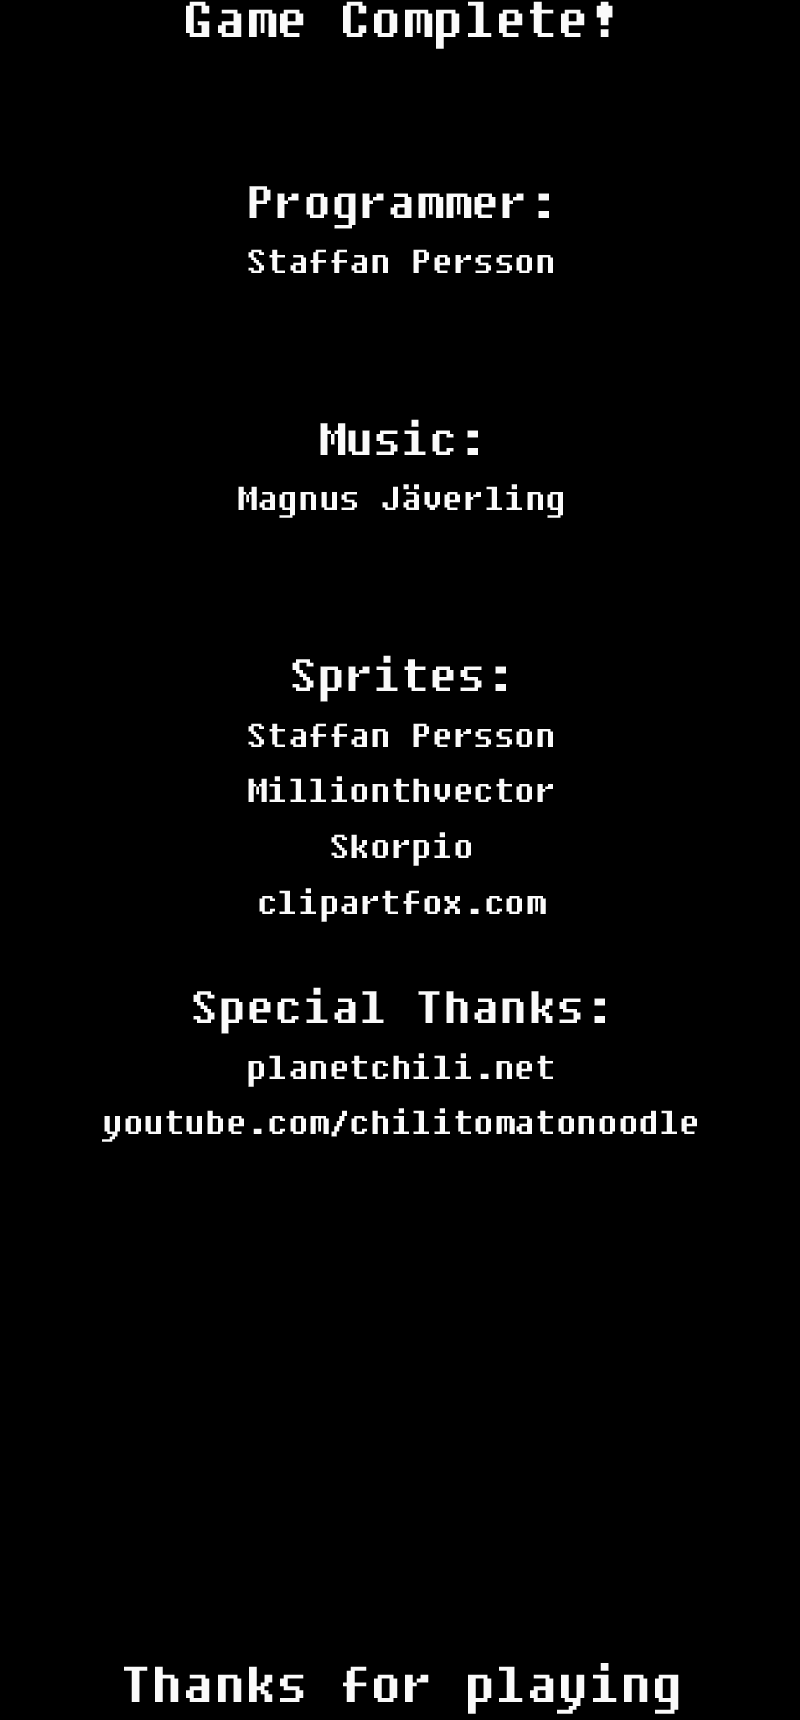
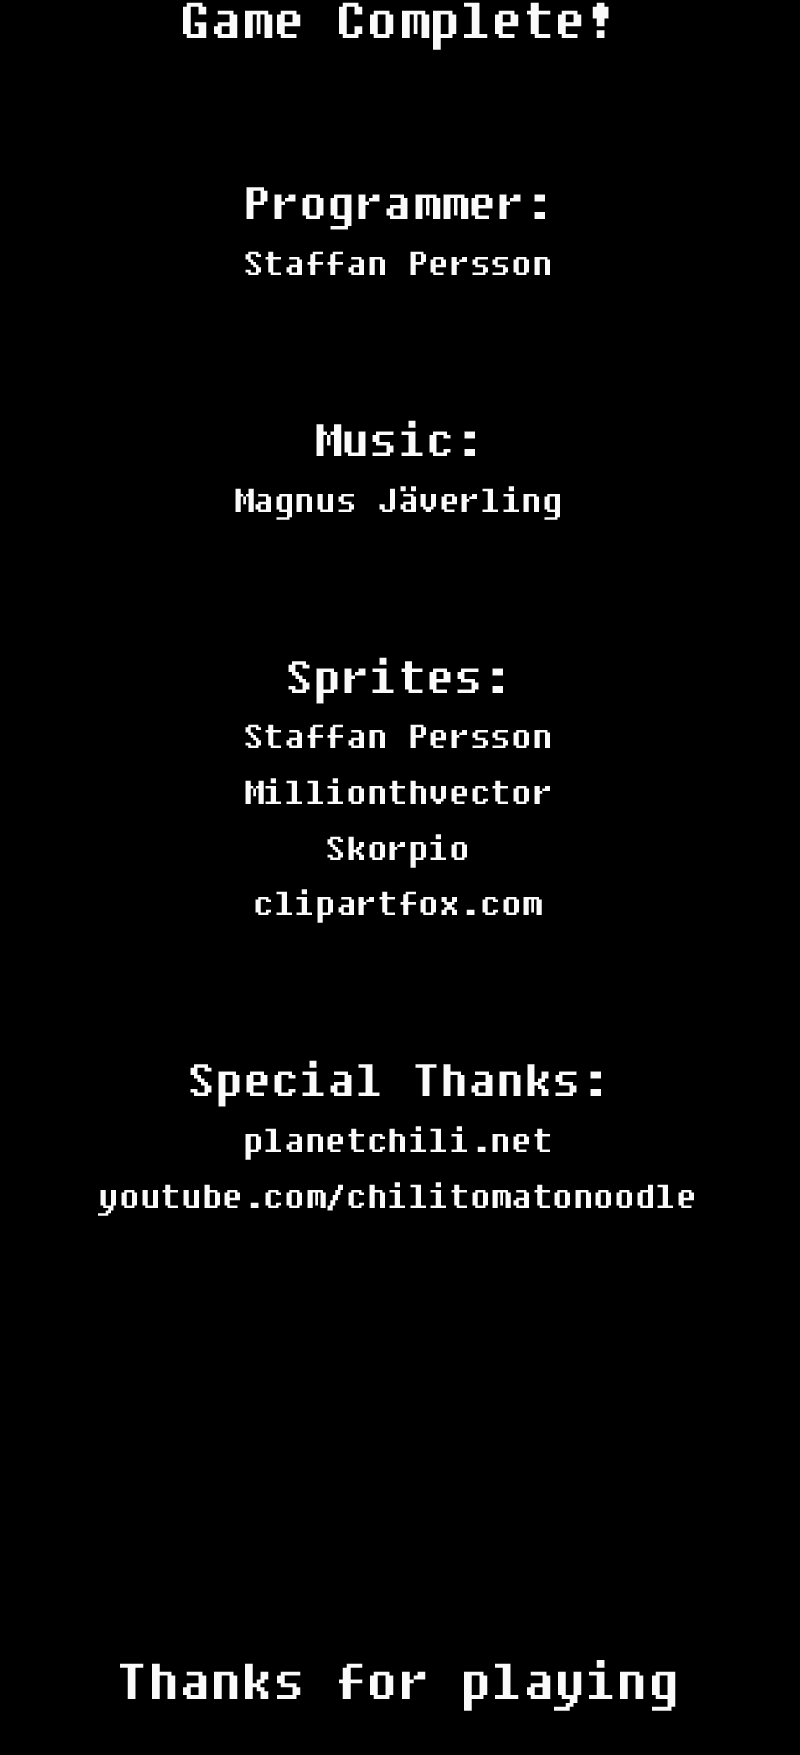
adjusted credit pic a little bit

diff --git a/Engine/World.cpp b/Engine/World.cpp
@@ -187,7 +187,7 @@ void World::Update(Keyboard& Kbd, float Dt)
 	case CreditState:
 		PlayerInput(Kbd);
 		UpdateStars(Dt);
-		if (creditY > -1420)
+		if (creditY > -1400)
 		{
 			creditY -= creditSpeed * Dt;
 		}

diff --git a/Engine/Bullet.h b/Engine/Bullet.h
@@ -33,5 +33,5 @@ private:
 	int rectSize = 10;
 	Vec2 vel = Vec2(0.0f, 900.0f);
 	int dmg = 20;
-	int bossDmg = 10;
+	int bossDmg = 20;
 };
